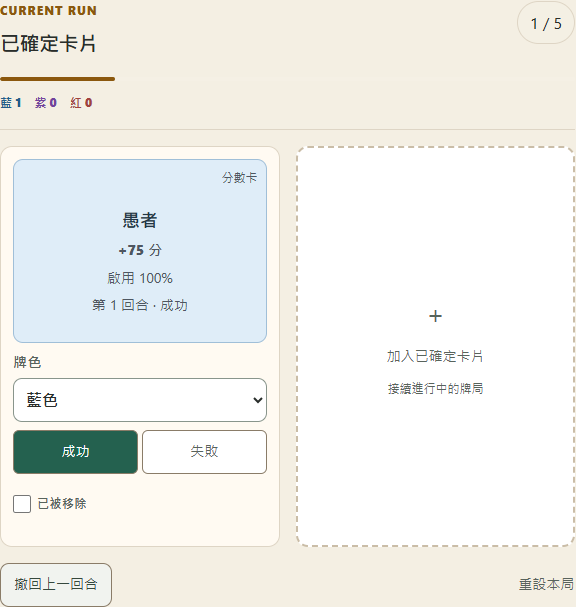
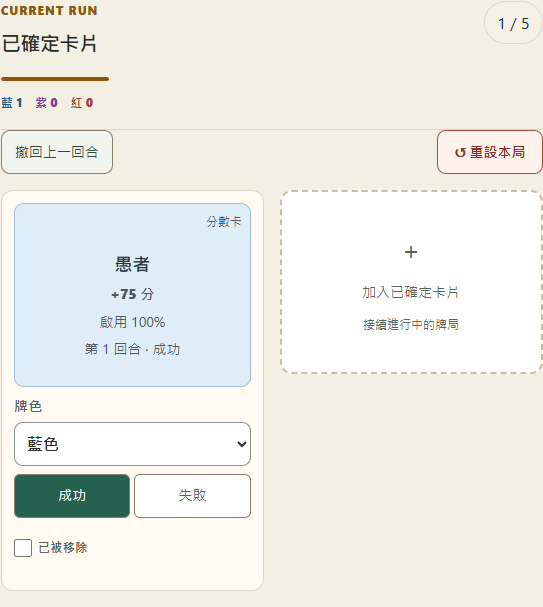
fix: use full width and balance candidate cards

diff --git a/B_yuria-web-spec/src/usability.css b/B_yuria-web-spec/src/usability.css
@@ -29,7 +29,7 @@
   line-height: 1.6;
 }
 body { background: var(--bg); }
-.shell { max-width: 1280px; }
+.shell { width: 100%; max-width: none; padding: 34px clamp(12px, 2vw, 32px) 30px; }
 .panel, .candidate-card, .picker-dialog { background: var(--panel); box-shadow: 0 4px 16px #31382c08; }
 .panel, .candidate-card { border-radius: 14px; }
 h1 { font-size: clamp(26px, 3vw, 38px); line-height: 1.3; }
@@ -47,16 +47,16 @@ label, .segmented button, .secondary-action, .text-action, .choose-card, .edit-c
 .primary-action:hover:not(:disabled), .candidate-card.is-top .choose-card:hover { background: #194c3d; }
 .secondary-action, .segmented button { background: #f1f3ef; color: #36483d; }
 .control-bar { padding: 20px; }
-.layout { grid-template-columns: minmax(0, .85fr) minmax(0, 1fr); gap: 28px; }
+.layout { grid-template-columns: minmax(0, 2fr) minmax(0, 3fr); gap: 28px; }
 .workspace { grid-column: 2; grid-row: 1; min-width: 0; }
 .sidebar { grid-column: 1; grid-row: 1; min-width: 0; }
 .workspace-heading { margin-bottom: 8px; }
-.candidate-grid { gap: 16px; }
-.pending-card { min-height: 250px; background: #fff; border-style: solid; }
+.candidate-grid { grid-template-columns: repeat(3, minmax(0, 300px)); justify-content: start; gap: 16px; }
+.pending-card { min-height: 0; padding: 12px; background: #fff; border-style: solid; }
 .candidate-slot-button { border-color: #99aaa0; background: #fafbf8; min-height: 115px; }
 .candidate-slot-button strong { font-size: 19px; }
 .candidate-slot-button small, .pending-copy, .history-hint, .calculation-time { font-size: 13px; }
-.candidate-color-buttons { gap: 8px; margin-block: 16px; }
+.candidate-color-buttons { gap: 8px; margin-block: 8px; }
 .candidate-color-button, .picker-color { font-size: 14px; border-color: #9ea9a1; }
 .candidate-color-button.selected, .picker-color.selected { outline: 2px solid #24614f; outline-offset: 2px; box-shadow: none; font-weight: 900; }
 .candidate-color-button.selected::before, .picker-color.selected::before { content: "✓ "; }
@@ -79,6 +79,8 @@ label, .segmented button, .secondary-action, .text-action, .choose-card, .edit-c
 .history-row { flex-wrap: wrap; font-size: 14px; }
 .status { font-size: 12px; }
 .history-actions { flex-wrap: wrap; }
+.history-actions #reset { min-height: 44px; padding: 9px 16px; border: 1px solid #a94f3d; border-radius: 9px; background: #fff1ec; color: #8c3024; font-weight: 800; }
+.history-actions #reset:hover { background: #fce2da; }
 .empty-state, .confidence small, .knowledge-note, .formula p { font-size: 13px; }
 .formula code { background: #f0f3ed; white-space: normal; overflow-wrap: anywhere; }
 .reward-table { grid-template-columns: repeat(auto-fit, minmax(80px, 1fr)); }
@@ -110,7 +112,7 @@ label, .segmented button, .secondary-action, .text-action, .choose-card, .edit-c
 .score-total { font-size: 28px; color: var(--yellow); }
 .header .eyebrow { font-family: Georgia, serif; font-style: italic; }
 .history-panel { background: transparent; padding: 0; border: 0; box-shadow: none; }
-.history-list { display: grid; grid-template-columns: repeat(2, minmax(0, 1fr)); align-items: stretch; gap: 16px; }
+.history-list { display: grid; grid-template-columns: repeat(2, minmax(0, 300px)); align-items: stretch; gap: 16px; }
 .history-row { display: grid; grid-template-rows: 184px auto auto auto 1fr; align-content: start; gap: 8px; min-width: 0; padding: 12px; border: 1px solid var(--line); border-radius: 12px; background: #fffaf2; }
 .history-row label { display: grid; gap: 4px; }
 .history-row select { width: 100%; min-width: 0; padding: 4px 8px; }
@@ -125,7 +127,7 @@ label, .segmented button, .secondary-action, .text-action, .choose-card, .edit-c
 .card-face { display: flex; flex-direction: column; align-items: center; justify-content: center; gap: 5px; position: relative; min-height: 174px; width: 100%; border: 1px solid #b3c5d5; border-radius: 10px; padding: 32px 8px 12px; margin-top: 12px; text-align: center; color: #243645; }
 .history-row .card-face { margin: 0; min-height: 0; height: 184px; }
 .history-row .history-result button { min-height: 44px; }
-.history-list .history-add { max-width: none; width: 100%; }
+.history-list .history-add { max-width: none; width: 100%; height: 184px; min-height: 184px; align-self: start; }
 .card-face.blue { background: #dfedf8; border-color: #a0bfd8; }
 .card-face.purple { background: #eee4f7; border-color: #c7afdc; }
 .card-face.red { background: #f8e1dc; border-color: #deb3ac; }
@@ -134,7 +136,8 @@ label, .segmented button, .secondary-action, .text-action, .choose-card, .edit-c
 .face-category { position: absolute; top: 8px; right: 8px; font-size: 11px; color: #4e5661; }
 .card-face.is-failed { background: #e8e3dc; border-style: dashed; }
 .is-removed .card-face { border-style: dashed; opacity: .65; }
-.candidate-slot-button { min-height: 174px; }
+.candidate-slot-button { min-height: 184px; margin-top: 8px; }
+.pending-card .pending-copy { display: none; }
 .picker-search { display: grid; gap: 6px; padding-top: 16px; }
 .search-control { display: flex; gap: 8px; align-items: center; }
 .search-control input { width: 100%; flex: 1; }
@@ -169,10 +172,10 @@ label, .segmented button, .secondary-action, .text-action, .choose-card, .edit-c
   .layout { grid-template-columns: 1fr; }
   .workspace, .sidebar { grid-column: 1; grid-row: auto; }
   .workspace { order: 1; } .sidebar { order: 2; }
-  .history-list { grid-template-columns: repeat(2, minmax(0, 1fr)); }
+  .history-list { grid-template-columns: repeat(2, minmax(0, 300px)); }
 }
 @media (max-width: 600px) {
-  .shell { width: calc(100% - 24px); }
+  .shell { width: 100%; padding: 18px 12px 24px; }
   .control-bar { padding: 16px; }
   .target-field input { width: 100%; }
   .simulation-field, .target-field { min-width: 0; }
@@ -182,7 +185,7 @@ label, .segmented button, .secondary-action, .text-action, .choose-card, .edit-c
   .candidate-slot-button { min-height: 92px; margin: 0; }
   .candidate-color-buttons { align-self: center; margin: 0; }
   .pending-copy { display: none; }
-  .history-list { grid-template-columns: 1fr; }
+  .history-list, .candidate-grid { grid-template-columns: 1fr; }
   .picker-card-grid { grid-template-columns: repeat(3, minmax(0, 1fr)); }
   .picker-card { padding: 8px 4px; }
   .restored-note { align-items: flex-start; }
@@ -207,7 +210,7 @@ label, .segmented button, .secondary-action, .text-action, .choose-card, .edit-c
 .catalog-list span { flex-wrap: wrap; }
 .catalog-list small { white-space: normal; }
 @media (min-width: 600px) and (max-width: 1199px) {
-  .candidate-grid { grid-template-columns: repeat(3, minmax(0, 1fr)); }
+  .candidate-grid { grid-template-columns: repeat(2, minmax(0, 300px)); }
   .picker-card-grid { grid-template-columns: repeat(4, minmax(0, 1fr)); }
 }
 @media (max-width: 380px) { .picker-card-grid { grid-template-columns: repeat(2, minmax(0, 1fr)); } }

diff --git a/B_yuria-web-spec/src/main.ts b/B_yuria-web-spec/src/main.ts
@@ -322,8 +322,8 @@ function render() {
         <section class="panel history-panel"><div class="section-heading"><div><p class="eyebrow">CURRENT RUN</p><h2>已確定卡片</h2></div><span class="turn-counter">${state.selected.length} / 5</span></div>
           <div class="progress"><span style="width:${state.selected.length * 20}%"></span></div>
           <div class="color-counts"><span class="blue-text">藍 ${activeCounts.blue}</span><span class="purple-text">紫 ${activeCounts.purple}</span><span class="red-text">紅 ${activeCounts.red}</span></div>
+          <div class="history-actions">${state.selected.length ? `<button class="secondary-action" id="undo">撤回上一回合</button>` : `<span class="history-hint">先填入本回合候選牌</span>`}<button class="secondary-action" id="reset">↺ 重設本局</button></div>
           <div class="history-list">${renderHistory()}</div>
-          <div class="history-actions">${state.selected.length ? `<button class="secondary-action" id="undo">撤回上一回合</button>` : `<span class="history-hint">先填入本回合候選牌</span>`}<button class="text-action" id="reset">重設本局</button></div>
         </section>
         <details class="supplement"><summary>查看統計與實測</summary>${renderEvidencePanel()}</details>
         <details class="supplement real-archive" data-detail-key="real-archive"${detailAttribute("real-archive")}><summary>真實牌局紀錄</summary><section class="panel real-archive-panel"><p id="record-save-status" role="status">${esc(archiveSaveState)}</p><div id="real-archive-body">${renderArchiveBody()}</div></section></details>

diff --git a/DESIGN.md b/DESIGN.md
@@ -408,3 +408,4 @@
 - GitHub 登入與雲端下載放在獨立收合區；未登入仍可本機操作。登入後的新紀錄僅在玩家按「紀錄本局」後同步。Supabase OAuth provider 尚待控制台設定；正式站登入與雙帳號 RLS 隔離未實測，不列為已驗收。
 - 本機新增 `tests/real-game-flow.cjs`：五回合前 0 筆歸檔、刷新仍 0、可留白紀錄、後補 840 分、修訂版本、JSON 重複匯入不加倍、重設保留歸檔及 0 page error；既有瀏覽器驗收 18/18 通過。詳細資料欄位與校準門檻見 `REAL_GAME_DATA_PLAN.md`。
 - 已選卡版面修正：側欄各卡固定相同兩欄寬度與 184px 卡面高度，5 張依 2／2／1 換列；手機 599px 以下改單欄。`artifacts/real-game-flow/history-1.png`、`history-5.png`、`history-5-mobile.png` 顯示首張與後四張格式一致。375px 無橫向溢出；修正後 `tests/real-game-flow.cjs` 和既有 18 項瀏覽器案例再次通過。
+- 使用者後續指定滿版：`.shell` 設為 `width: 100%` 並保留 12–32px 內距，1440px／1920px 實測無橫向溢出。桌機左右區採 2:3 比例，歷史卡兩欄、候選卡三欄且各卡最大 300px；1440px 首張已選卡與候選卡寬度相差 ≤4px。候選卡縮短多餘垂直留白；600–1199px 候選改兩欄，手機單欄。重設本局按鈕移到卡牌上方並增加邊框及色彩；仍保留重設確認。
